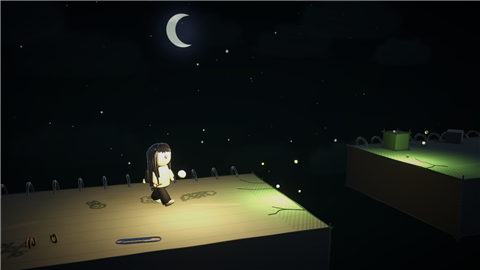
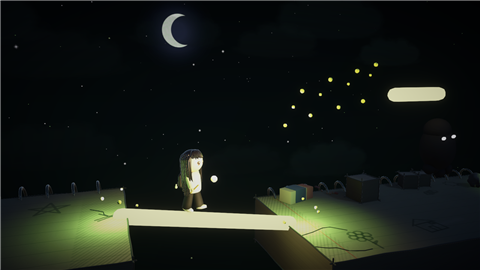
صفحة اليراعات: الفانوس يخلص، اليراعات تعبيه (خط يلمسها)، وظلال بعيون تلمع تخاف من الضو

diff --git a/Assets/Scripts/NewMechanics.cs b/Assets/Scripts/NewMechanics.cs
@@ -21,6 +21,8 @@ public static class NewFeatures
         foreach (Vector3 peg in data.pegs) StonePillar.Create(root, peg, gm);
         foreach (Vector4 b in data.birds) PaperBird.Create(root, b, gm);
         if (data.darkness) BuildDarkness(root, data, gm);
+        foreach (Vector3 s in data.swarms) FireflySwarm.Create(root, s, gm);
+        foreach (Vector3 s in data.shadows) ShadowCreature.Create(root, s, gm);
     }
 
     // ---------- الرسم ----------
@@ -83,8 +85,9 @@ public static class NewFeatures
             lantern.range = 7f;
             lantern.intensity = 3.2f;
             var glow = gm.Mat("Lantern Glow", new Color(2.6f, 2f, 0.9f), 0.9f);
-            LevelBuilder.Visual("Lantern", PrimitiveType.Sphere, rowaida.transform, new Vector3(0.38f, 0.05f, -0.32f), Vector3.one * 0.16f, glow, false);
+            var ball = LevelBuilder.Visual("Lantern", PrimitiveType.Sphere, rowaida.transform, new Vector3(0.38f, 0.05f, -0.32f), Vector3.one * 0.16f, glow, false);
             lantern.gameObject.AddComponent<Flicker>().baseIntensity = 3.2f;
+            rowaida.gameObject.AddComponent<LanternFuel>().Init(lantern, ball.transform);
         }
 
         // يراعات عند أطراف الحفر (تعلّم وين تنتهي الأرض)
@@ -1302,5 +1305,210 @@ public class PaperBird : MonoBehaviour
                 Destroy(g);
             }
         carried.Clear();
+    }
+}
+
+// ---------- اليراعات: فانوس يخلص، يراعات تعبيه، وظلال تخاف من الضو ----------
+
+// زيت الفانوس: ينقص مع الوقت، والضو يصغر معه
+public class LanternFuel : MonoBehaviour
+{
+    public const float Drain = 1f / 9f;
+    public static LanternFuel Instance;
+    public float fuel = 1f;
+    Light lamp;
+    Flicker flicker;
+    Transform glow;
+
+    // نص قطر الضو اللي تخاف منه الظلال
+    public float Radius => Mathf.Lerp(0.3f, 5.5f, fuel);
+
+    public void Init(Light light, Transform glowBall)
+    {
+        Instance = this;
+        lamp = light;
+        flicker = light.GetComponent<Flicker>();
+        glow = glowBall;
+        GameManager.Instance.Respawned += OnRespawned;
+    }
+
+    void OnDestroy()
+    {
+        if (Instance == this) Instance = null;
+        if (GameManager.Instance != null) GameManager.Instance.Respawned -= OnRespawned;
+    }
+
+    void OnRespawned(Vector3 pos) => fuel = 1f;
+
+    public void Refill(float amount)
+    {
+        fuel = Mathf.Min(1f, fuel + amount);
+        Fx.Sparkle(lamp.transform.position, new Color(0.85f, 1f, 0.4f), 16);
+        GameManager.Instance.Sound.PlaySqueak(1.6f);
+    }
+
+    void Update()
+    {
+        GameManager gm = GameManager.Instance;
+        if (gm != null && gm.IsPlaying) fuel = Mathf.Max(0f, fuel - Drain * Time.deltaTime);
+        lamp.range = Mathf.Lerp(1.6f, 7.5f, fuel);
+        float k = Mathf.Lerp(0.5f, 3.4f, fuel);
+        // لما يقرب يخلص يرجف
+        if (fuel < 0.25f) k *= 0.6f + 0.4f * Mathf.PerlinNoise(Time.time * 12f, 0f);
+        if (flicker != null) flicker.baseIntensity = k; else lamp.intensity = k;
+        if (glow != null) glow.localScale = Vector3.one * Mathf.Lerp(0.08f, 0.17f, fuel);
+    }
+}
+
+// سرب يراعات يطير بمكانه: إذا لمسته رويدا أو خط، يطير للفانوس ويعبيه
+public class FireflySwarm : MonoBehaviour
+{
+    readonly List<Transform> bugs = new List<Transform>();
+    float seed, flyT = -1f;
+    Vector3[] flyFrom;
+    Light glow;
+
+    public static void Create(Transform root, Vector3 pos, GameManager gm)
+    {
+        var go = new GameObject("Firefly Swarm");
+        go.transform.SetParent(root, false);
+        go.transform.position = pos;
+        var s = go.AddComponent<FireflySwarm>();
+        s.seed = pos.x;
+        var mat = gm.Mat("Swarm Glow", new Color(2.6f, 3f, 0.8f), 0.9f);
+        for (int i = 0; i < 12; i++)
+            s.bugs.Add(LevelBuilder.Visual("Firefly", PrimitiveType.Sphere, go.transform, Vector3.zero, Vector3.one * 0.08f, mat, false).transform);
+        s.glow = go.AddComponent<Light>();
+        s.glow.type = LightType.Point;
+        s.glow.color = new Color(0.8f, 1f, 0.4f);
+        s.glow.range = 3.5f;
+        s.glow.intensity = 2.2f;
+    }
+
+    void Update()
+    {
+        GameManager gm = GameManager.Instance;
+        if (gm == null || gm.Rowaida == null) return;
+        Vector3 lantern = gm.Rowaida.transform.position + new Vector3(0.4f, 0.1f, -0.3f);
+
+        if (flyT >= 0f)
+        {
+            // تطير للفانوس كل وحدة بطريقها
+            flyT += Time.deltaTime / 0.8f;
+            for (int i = 0; i < bugs.Count; i++)
+            {
+                Vector3 mid = Vector3.Lerp(flyFrom[i], lantern, 0.5f) + Vector3.up * (0.8f + i % 3 * 0.3f);
+                float t = Mathf.Clamp01(flyT - i * 0.03f);
+                bugs[i].position = Vector3.Lerp(Vector3.Lerp(flyFrom[i], mid, t), Vector3.Lerp(mid, lantern, t), t);
+            }
+            glow.transform.position = bugs[0].position;
+            if (flyT >= 1.35f)
+            {
+                if (LanternFuel.Instance != null) LanternFuel.Instance.Refill(0.6f);
+                Destroy(gameObject);
+            }
+            return;
+        }
+
+        float time = Time.time + seed;
+        for (int i = 0; i < bugs.Count; i++)
+        {
+            float a = time * (0.7f + i * 0.13f) + i * 2.1f;
+            bugs[i].localPosition = new Vector3(Mathf.Cos(a) * 0.6f, Mathf.Sin(a * 1.4f) * 0.45f, Mathf.Sin(a) * 0.35f);
+            bugs[i].localScale = Vector3.one * (0.06f + 0.04f * Mathf.Abs(Mathf.Sin(time * 5f + i)));
+        }
+        glow.intensity = 2f + Mathf.Sin(time * 3f) * 0.5f;
+
+        // رويدا قريبة، أو خط يلمسه؟
+        bool touched = (gm.Rowaida.transform.position - transform.position).sqrMagnitude < 1.3f * 1.3f;
+        if (!touched)
+            foreach (InkMark mark in Object.FindObjectsByType<InkMark>(FindObjectsSortMode.None))
+            {
+                var r = mark.GetComponent<MeshRenderer>();
+                if (r != null && r.bounds.SqrDistance(transform.position) < 0.8f * 0.8f) { touched = true; break; }
+            }
+        if (!touched) return;
+        flyT = 0f;
+        flyFrom = new Vector3[bugs.Count];
+        for (int i = 0; i < bugs.Count; i++) flyFrom[i] = bugs[i].position;
+        gm.Sound.PlaySqueak(2f);
+    }
+}
+
+// ظل بعيون تلمع: يقرب من رويدا لما الضو ضعيف، ويهرب منه لما يكون قوي. لو لمسها تخسر قلب
+public class ShadowCreature : MonoBehaviour
+{
+    Vector3 home, vel;
+    Transform body;
+    readonly List<Transform> eyes = new List<Transform>();
+    readonly List<Transform> wisps = new List<Transform>();
+    float seed;
+
+    public static void Create(Transform root, Vector3 pos, GameManager gm)
+    {
+        var go = new GameObject("Shadow Creature");
+        go.transform.SetParent(root, false);
+        go.transform.position = pos;
+        var s = go.AddComponent<ShadowCreature>();
+        s.home = pos;
+        s.seed = pos.x * 3.1f;
+
+        Material dark = gm.Mat("Shadow Body", new Color(0.02f, 0.015f, 0.04f), 0f);
+        var eyeMat = new Material(Shader.Find("Universal Render Pipeline/Unlit")) { name = "Shadow Eye" };
+        eyeMat.SetColor("_BaseColor", new Color(2.4f, 2.1f, 1.1f));
+        s.body = new GameObject("Body").transform;
+        s.body.SetParent(go.transform, false);
+        LevelBuilder.Visual("Blob", PrimitiveType.Sphere, s.body, Vector3.zero, new Vector3(0.95f, 1.15f, 0.8f), dark, false);
+        LevelBuilder.Visual("Hood", PrimitiveType.Sphere, s.body, new Vector3(0f, 0.45f, 0f), new Vector3(0.7f, 0.6f, 0.65f), dark, false);
+        for (int i = 0; i < 4; i++)
+            s.wisps.Add(LevelBuilder.Visual("Wisp", PrimitiveType.Sphere, s.body, new Vector3(-0.3f + i * 0.2f, -0.55f, 0f), Vector3.one * 0.3f, dark, false).transform);
+        for (int e = -1; e <= 1; e += 2)
+            s.eyes.Add(LevelBuilder.Visual("Eye", PrimitiveType.Sphere, s.body, new Vector3(e * 0.16f, 0.32f, -0.36f), new Vector3(0.14f, 0.09f, 0.05f), eyeMat, false).transform);
+        gm.Respawned += s.OnRespawned;
+    }
+
+    void OnDestroy()
+    {
+        if (GameManager.Instance != null) GameManager.Instance.Respawned -= OnRespawned;
+    }
+
+    void OnRespawned(Vector3 pos)
+    {
+        transform.position = home;
+        vel = Vector3.zero;
+    }
+
+    void Update()
+    {
+        GameManager gm = GameManager.Instance;
+        if (gm == null || gm.Rowaida == null) return;
+        float t = Time.time + seed;
+        Vector3 me = transform.position, her = gm.Rowaida.transform.position + Vector3.up * 0.2f;
+        Vector3 to = her - me;
+        float d = to.magnitude;
+        float light = LanternFuel.Instance != null ? LanternFuel.Instance.Radius : 3f;
+
+        Vector3 want;
+        if (d < light) vel = want = -to.normalized * 4f;             // الضو عليه: يهرب على طول
+        else if (d < light + 1f) want = Vector3.zero;               // على حد الضو: يحوم ويطالع
+        else if (d < 9f) want = to.normalized * 1.9f;               // بعيد عن الضو: يقرب
+        else want = (home - me) * 0.8f;                             // بعيد: يرجع مكانه
+        vel = Vector3.Lerp(vel, want, Time.deltaTime * 3f);
+        vel.z = 0f;
+        transform.position = me + vel * Time.deltaTime;
+
+        // شكله: يتموج، ويصغر إذا الضو عليه، والعيون تغمض شوي
+        float scared = Mathf.Clamp01((light - d) / 2f);
+        body.localScale = Vector3.one * (1f - scared * 0.3f) + new Vector3(Mathf.Sin(t * 3f) * 0.05f, Mathf.Cos(t * 2.6f) * 0.06f, 0f);
+        foreach (Transform e in eyes) e.localScale = new Vector3(0.14f, Mathf.Lerp(0.09f, 0.025f, scared), 0.05f);
+        for (int i = 0; i < wisps.Count; i++)
+            wisps[i].localPosition = new Vector3(-0.3f + i * 0.2f + Mathf.Sin(t * 4f + i) * 0.06f, -0.55f + Mathf.Sin(t * 5f + i * 1.7f) * 0.1f, 0f);
+        body.localRotation = Quaternion.Euler(0f, 0f, -vel.x * 4f);
+
+        if (d < 0.8f && gm.IsPlaying)
+        {
+            Fx.Sparkle(her, new Color(0.3f, 0.2f, 0.5f), 16);
+            gm.KillRowaida();
+        }
     }
 }

diff --git a/Assets/Scripts/LevelData.cs b/Assets/Scripts/LevelData.cs
@@ -143,6 +143,8 @@ public class LevelData
     public List<Vector3> pins = new List<Vector3>();        // البالونات: دبابيس معلقة تفجر البالونة (من x، لـ x، ارتفاعها)
     public List<Vector3> fans = new List<Vector3>();        // البالونات: مروحة تدف البالونة لليمين (من x، لـ x، ارتفاع الطيران)
     public bool darkness;                                   // اليراعات: ظلام، فانوس مع رويدا، وخطوط تضوي
+    public List<Vector3> swarms = new List<Vector3>();      // اليراعات: سرب يعبي الفانوس (لمسة رويدا أو خط)
+    public List<Vector3> shadows = new List<Vector3>();     // اليراعات: ظلال تخاف من الضو
     public Vector2 meteorZone;                              // الفضاء: مطر نيازك بين x و x (صفر = ما فيه)
     public bool HasMeteors => meteorZone.y > meteorZone.x;
     public Vector3? blackHole;                              // الفضاء: مكان الثقب الأسود (null = ما فيه)
@@ -586,17 +588,18 @@ public static class Levels
         };
     }
 
-    // صفحة اليراعات: ظلام، رويدا ماسكة فانوس، والحفر تبين بس لما تقربين. يراعات تعلّم أطراف الأرض، وخطوطك تضوي
+    // صفحة اليراعات: ظلام، وزيت الفانوس يخلص شوي شوي. الظلال تقرب لما يضعف الضو.
+    // اليراعات تعبي الفانوس: اللي على الطريق تاخذها رويدا، واللي فوق ارسمي لها خط يوصلها
     static LevelData FirefliesLevel()
     {
         return new LevelData
         {
             title = "صفحة اليراعات",
             theme = LevelTheme.Fireflies(),
-            subtitle = "الدنيا ظلام... اتبعي اليراعات، وخطوطك بتضوي الطريق",
+            subtitle = "الفانوس يخلص! ارسمي خط يلمس اليراعات تعبيه، والظلال تخاف من الضو",
             spawn = new Vector3(-5f, 1f, 0f),
             door = new Vector3(43f, 0f, 0f),
-            ink = 24f,
+            ink = 26f,
             darkness = true,
             blocks =
             {
@@ -606,7 +609,23 @@ public static class Levels
                 Page(29f, 33f, -0.5f),
                 Page(36f, 46f),
             },
-            monsters = { Monster(ScribbleMonster.Kind.PurpleBlob, 22f, 19f, 25f) },
+            swarms =
+            {
+                new Vector3(9.5f, 1.9f, 0f),    // على الطريق
+                new Vector3(21f, 3.6f, 0f),     // فوق: يبي خط
+                new Vector3(31f, 3.1f, 0f),     // فوق: يبي خط
+            },
+            shadows =
+            {
+                new Vector3(22.5f, 1.5f, 0f),
+                new Vector3(31.5f, 1.2f, 0f),
+                new Vector3(40.5f, 1.6f, 0f),
+            },
+            hints =
+            {
+                new HintLine(new Vector3(20.3f, 2.9f, 0f), new Vector3(21.7f, 2.9f, 0f), new Color(0.8f, 1f, 0.4f)),
+                new HintLine(new Vector3(30.3f, 2.4f, 0f), new Vector3(31.7f, 2.4f, 0f), new Color(0.8f, 1f, 0.4f)),
+            },
         };
     }
 
